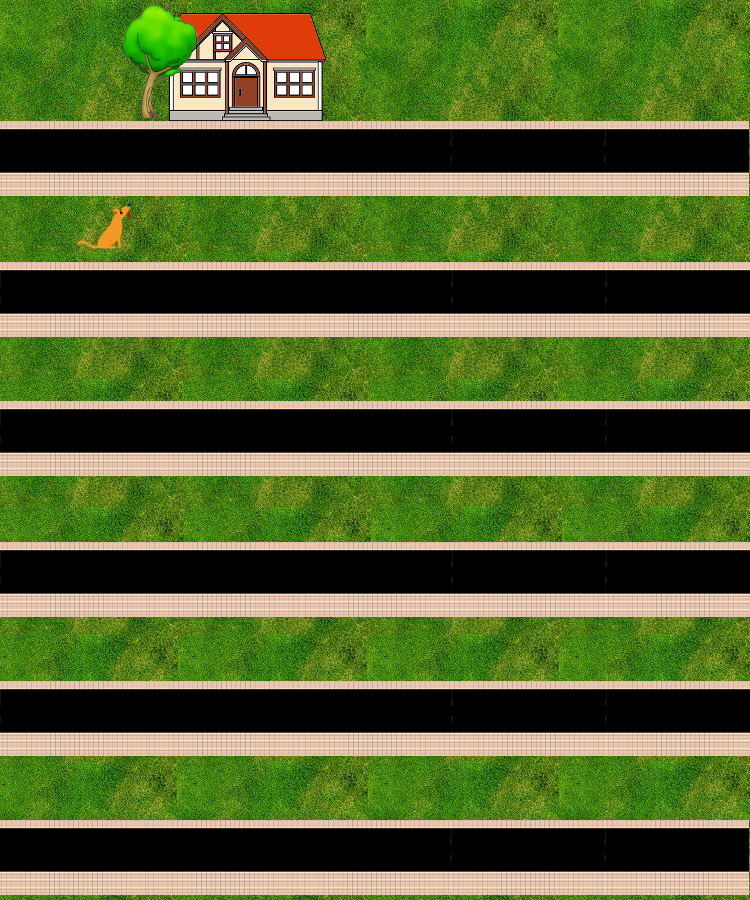
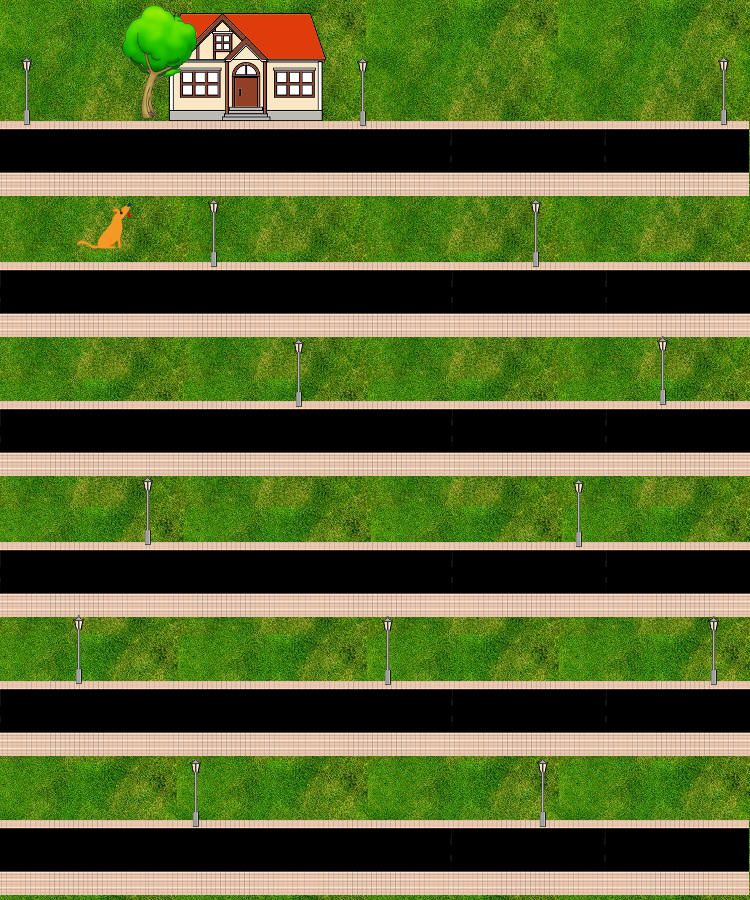
- bus stops not in one line; - some graphics added;

diff --git a/game/js/createTableWithRandomBuses.js b/game/js/createTableWithRandomBuses.js
@@ -6,19 +6,19 @@ var howManyBuses, intervalNumber=0;
 $(document).ready(function (){
   createArrayWithRandomBuses(100);
   createMultipleBuses(howManyBuses);
-  busAnimation(0);
-  busAnimation(1);
-  busAnimation(2);
-  busAnimation(3);
-  busAnimation(4);
-  busAnimation(5);
+  busAnimation(0,200);
+  busAnimation(1,450);
+  busAnimation(2,300);
+  busAnimation(3,480);
+  busAnimation(4,90);
+  busAnimation(5,290);
   setInterval(function(){
-    busAnimation(6+6*intervalNumber);
-    busAnimation(7+6*intervalNumber);
-    busAnimation(8+6*intervalNumber);
-    busAnimation(9+6*intervalNumber);
-    busAnimation(10+6*intervalNumber);
-    busAnimation(11+6*intervalNumber);
+    busAnimation(6+6*intervalNumber,200);
+    busAnimation(7+6*intervalNumber,450);
+    busAnimation(8+6*intervalNumber,300);
+    busAnimation(9+6*intervalNumber,480);
+    busAnimation(10+6*intervalNumber,90);
+    busAnimation(11+6*intervalNumber,290);
     intervalNumber+=1;
   },7000);
 });
@@ -50,13 +50,13 @@ function createMultipleBuses(numberOfBuses) {
   }
 }
 
-function busAnimation(indexInTheBuffer){
+function busAnimation(indexInTheBuffer,busStopDistance){
   var initialMargin=0;
-  var distanceTarget=250;
+  var distanceTarget=busStopDistance;
   var distanceDone=0;
   var speed=8;
   var approachTime=(distanceTarget+initialMargin)*speed;
-  var stopTime=(Math.random()*3)*1000;
+  var stopTime=((Math.random()*2)*1000)+2000;
   var delayTime=(Math.random()*2)*1000;
   setTimeout(function(){
 

diff --git a/game/styles/game.css b/game/styles/game.css
@@ -11,25 +11,35 @@
   height: 80px;
   width:54px;
   z-index:3;
-  left:390px;
 }
 .busStop1{
   top:145px;
+  left:340px;
 }
 .busStop2{
   top:285px;
+  left:590px;
+
 }
 .busStop3{
   top:425px;
+  left:440px;
+
 }
 .busStop4{
   top:565px;
+  left:620px;
+
 }
 .busStop5{
   top:705px;
+  left:230px;
+
 }
 .busStop6{
   top:845px;
+  left:430px;
+
 }
 .tree{
   position:absolute;
@@ -40,7 +50,7 @@
 }
 .tree1{
   top:290px;
-  left:480px;
+  left:330px;
 }
 .tree2{
   top: 570px;
@@ -48,7 +58,7 @@
 }
 .tree3{
   top:720px;
-  left:600px;
+  left:400px;
 }
 .bus{
   height:60px;
